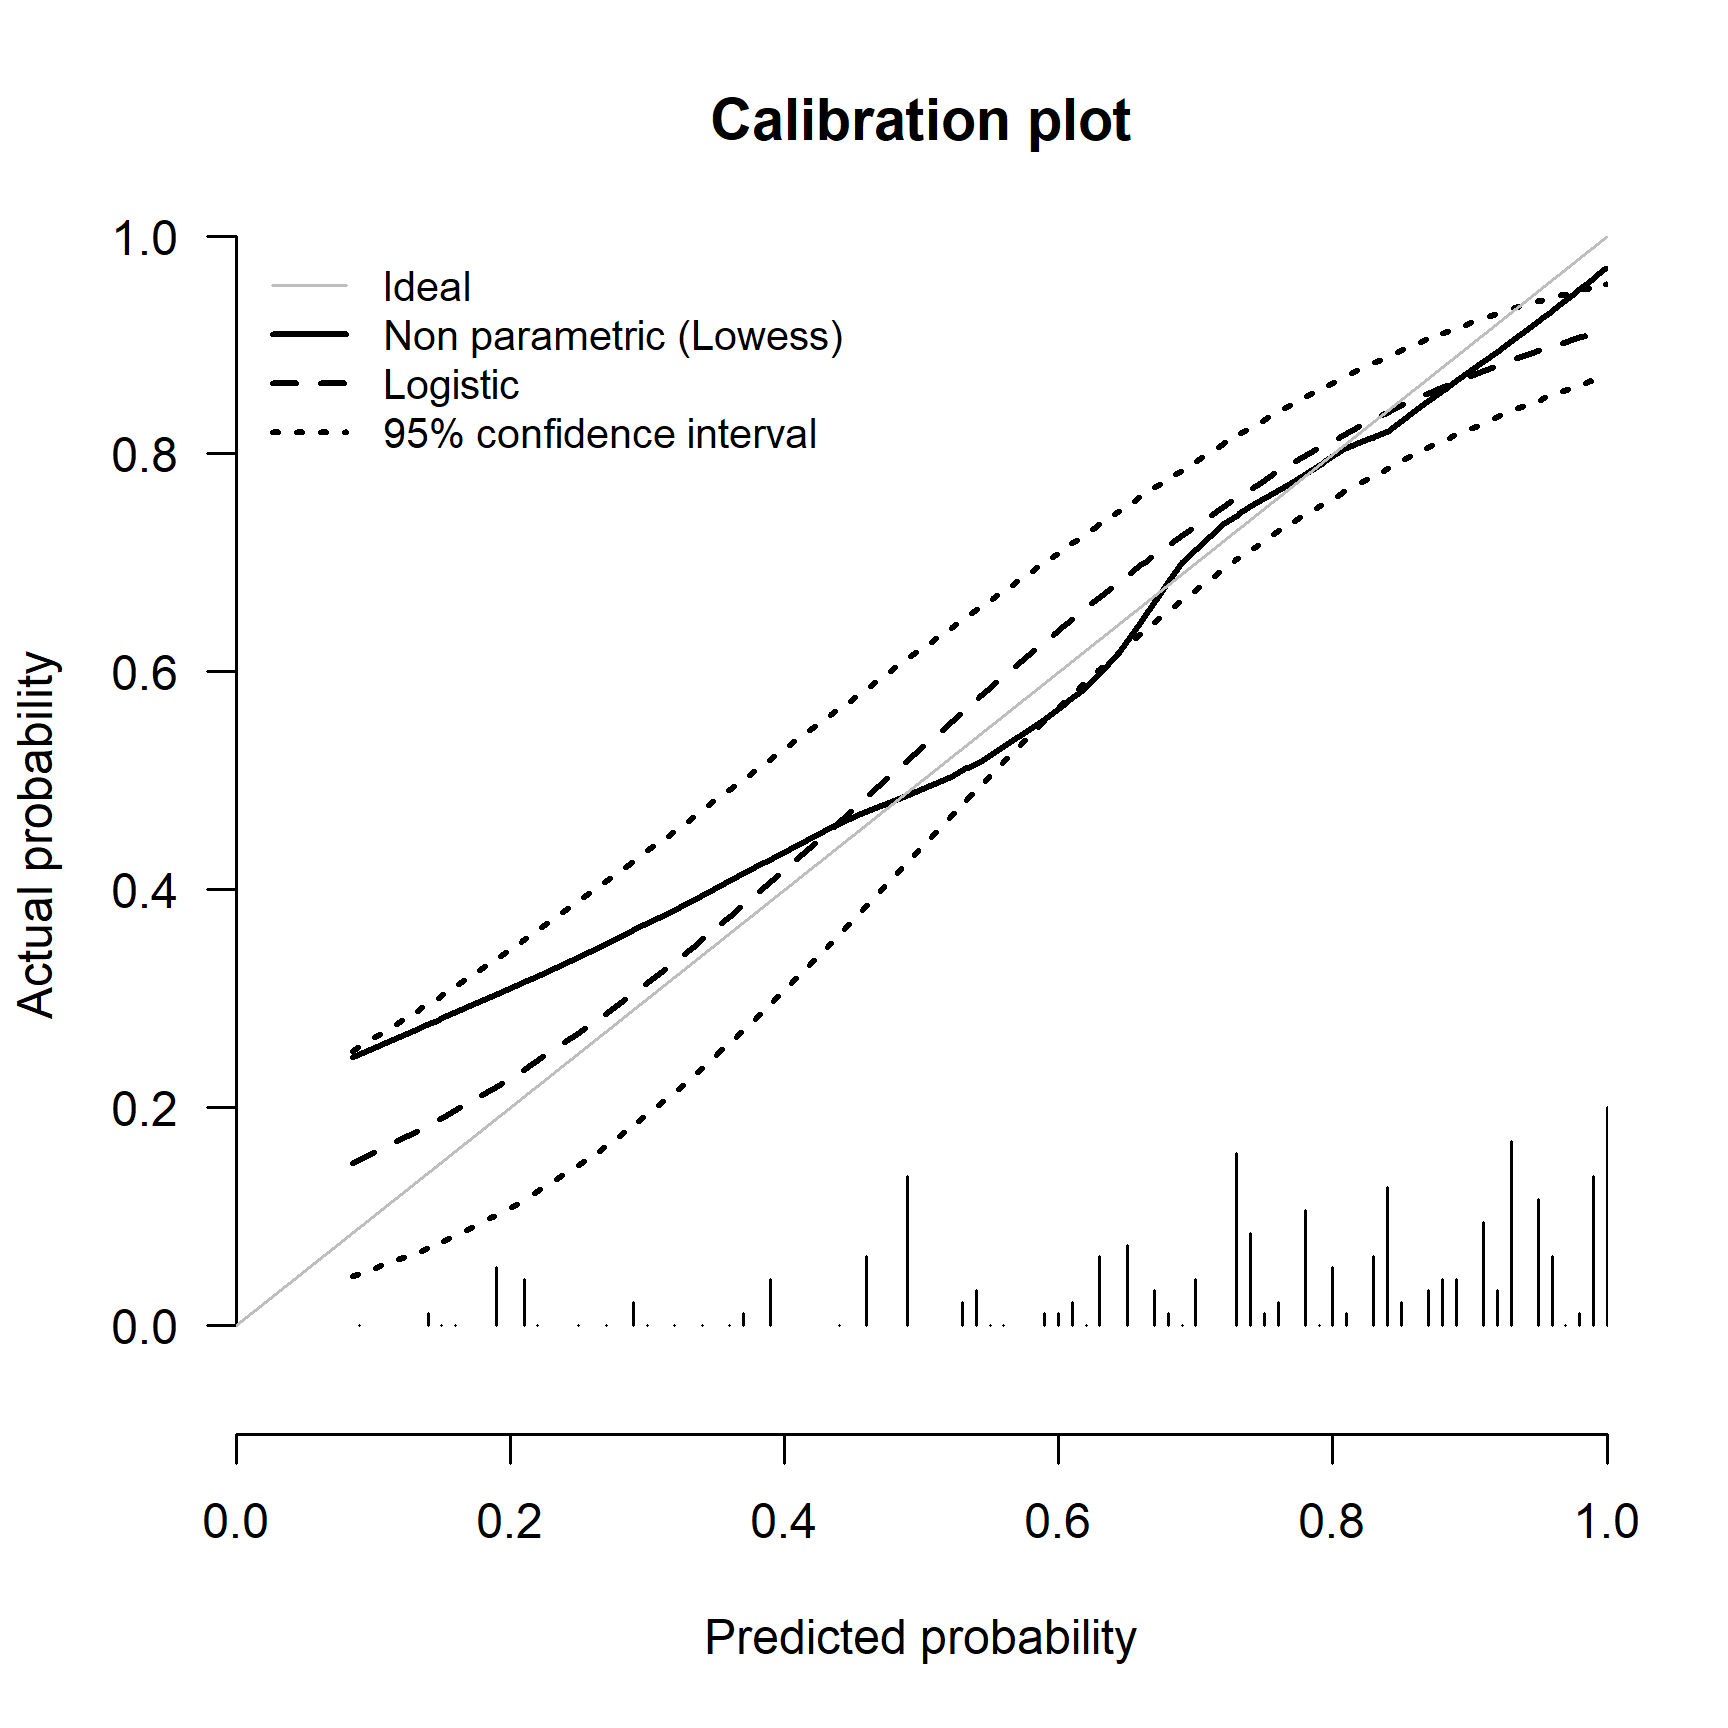
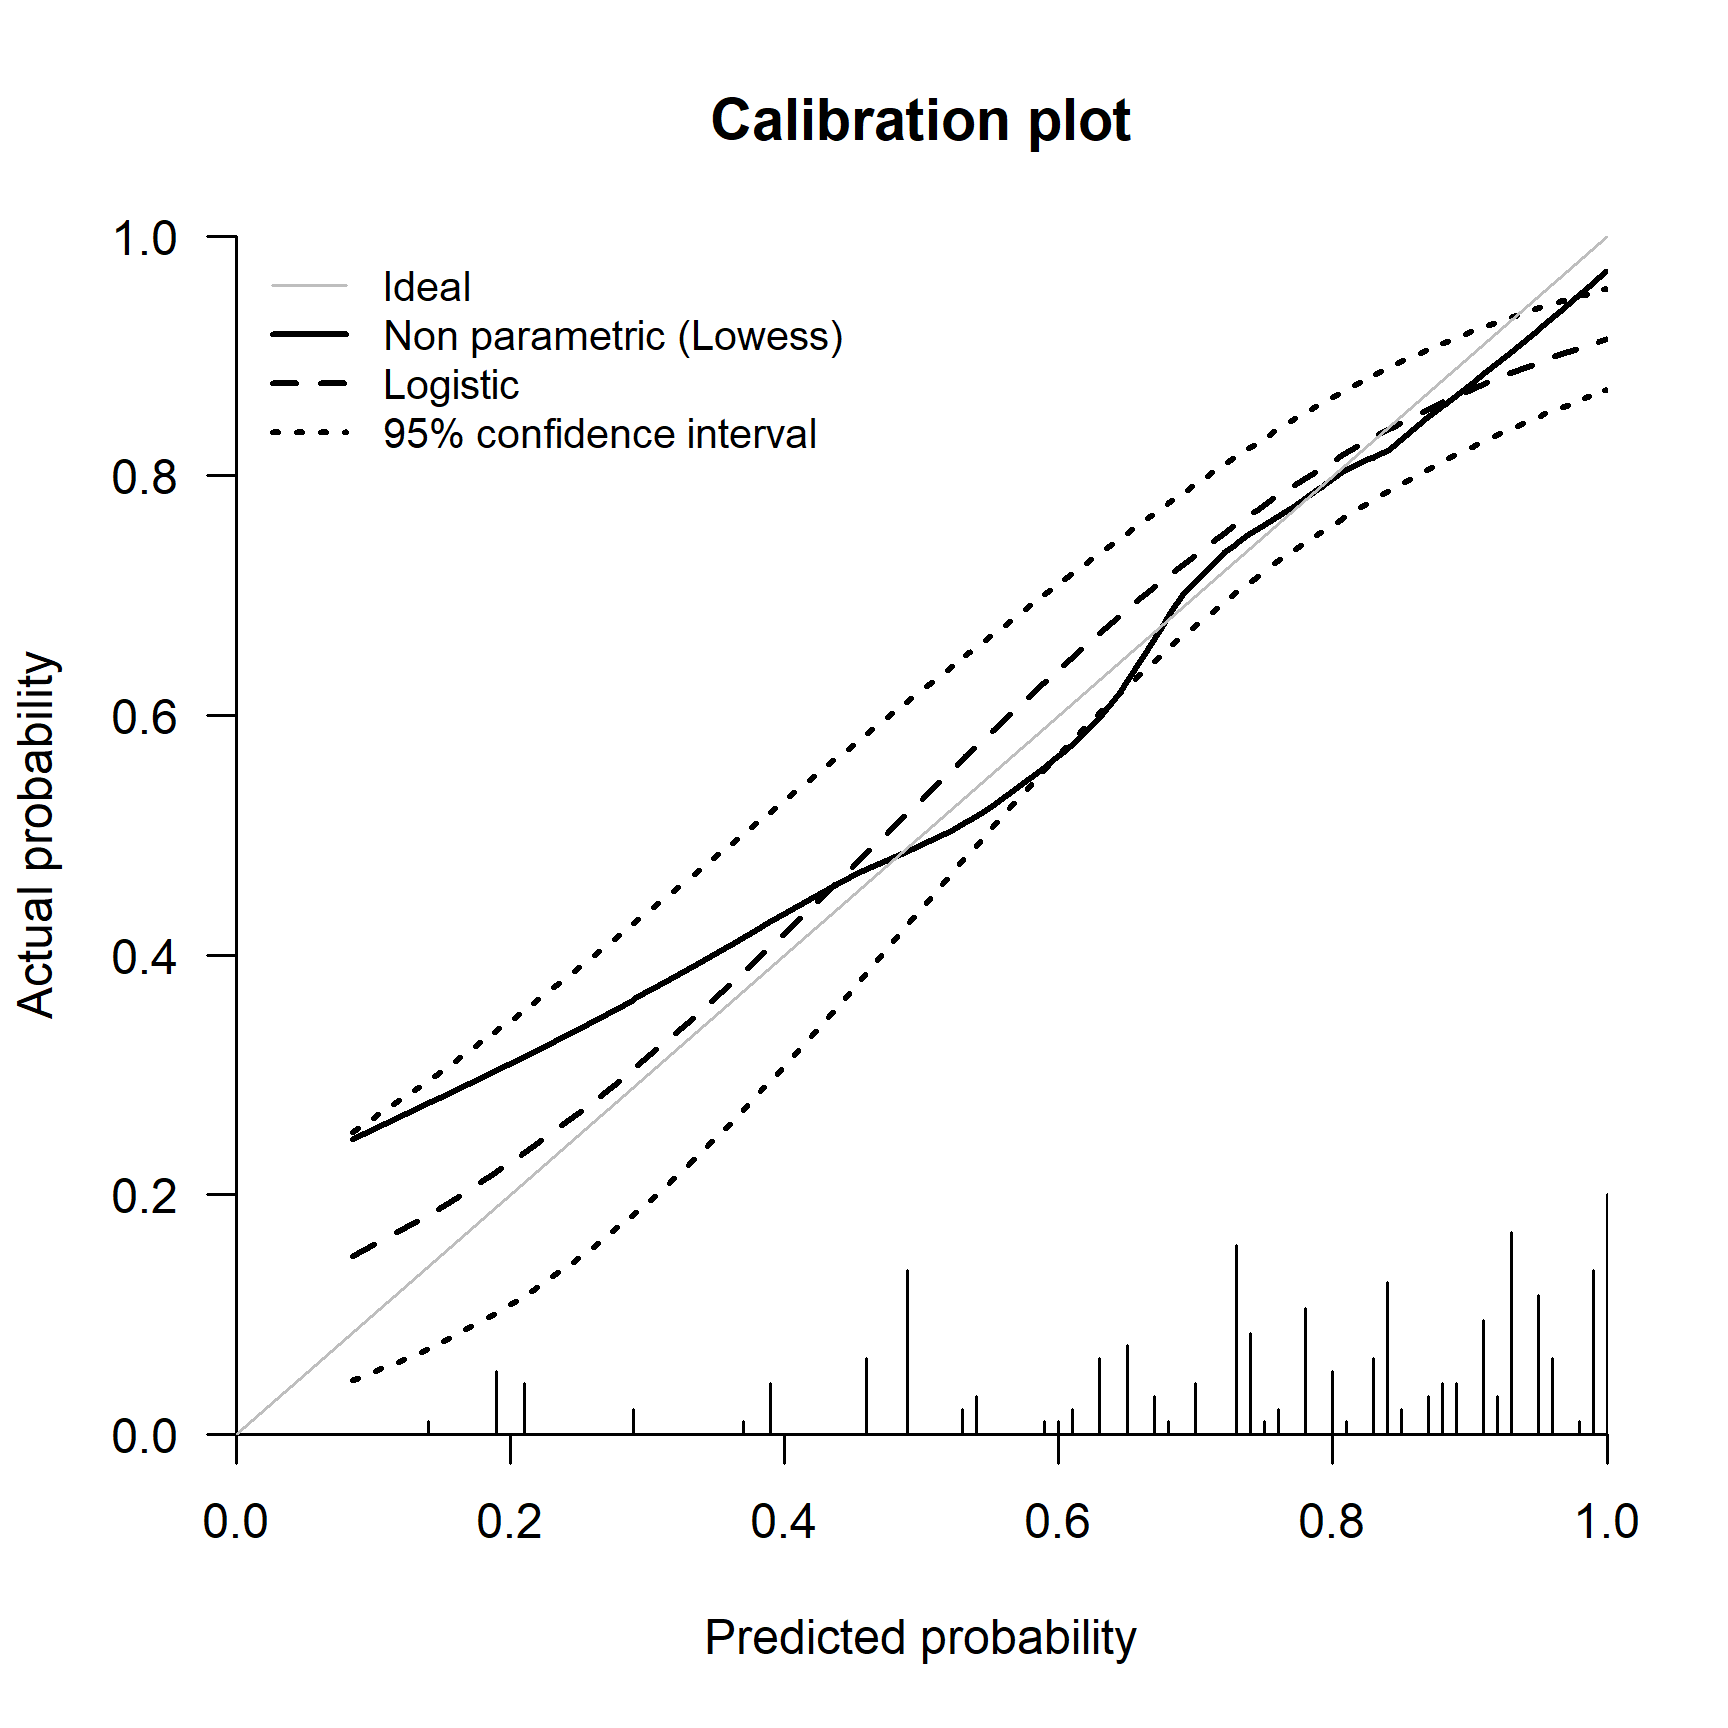
refine calibration plots + add no base packages in the scripts

diff --git a/03_PredLogReg.md b/03_PredLogReg.md
@@ -998,13 +998,13 @@ Discrimination slope
 0.30
 </td>
 <td style="text-align:right;">
-0.25
+0.26
 </td>
 <td style="text-align:right;">
-0.33
+0.34
 </td>
 <td style="text-align:right;">
-0.29
+0.30
 </td>
 <td style="text-align:right;">
 NA
@@ -1016,10 +1016,10 @@ NA
 0.24
 </td>
 <td style="text-align:right;">
-0.18
+0.19
 </td>
 <td style="text-align:right;">
-0.30
+0.29
 </td>
 </tr>
 </tbody>
@@ -1303,7 +1303,7 @@ par(xaxs = "i", yaxs = "i", las = 1)
 plot(cal_lowess,
      type = "l",
      xlim = c(0, 1),
-     ylim = c(-.1, 1),
+     ylim = c(0, 1),
      xlab = "Predicted probability",
      ylab = "Actual probability",
      bty = "n",
@@ -1576,7 +1576,7 @@ par(xaxs = "i", yaxs = "i", las = 1)
 plot(cal_lowess,
      type = "l",
      xlim = c(0, 1),
-     ylim = c(-.1, 1),
+     ylim = c(0, 1),
      xlab = "Predicted probability",
      ylab = "Actual probability",
      bty = "n",

diff --git a/02_PredLogReg.md b/02_PredLogReg.md
@@ -611,7 +611,7 @@ par(xaxs = "i", yaxs = "i", las = 1)
 plot(cal_lowess,
      type = "l",
      xlim = c(0, 1),
-     ylim = c(-.1, 1),
+     ylim = c(0, 1),
      xlab = "Predicted probability",
      ylab = "Actual probability",
      bty = "n",
